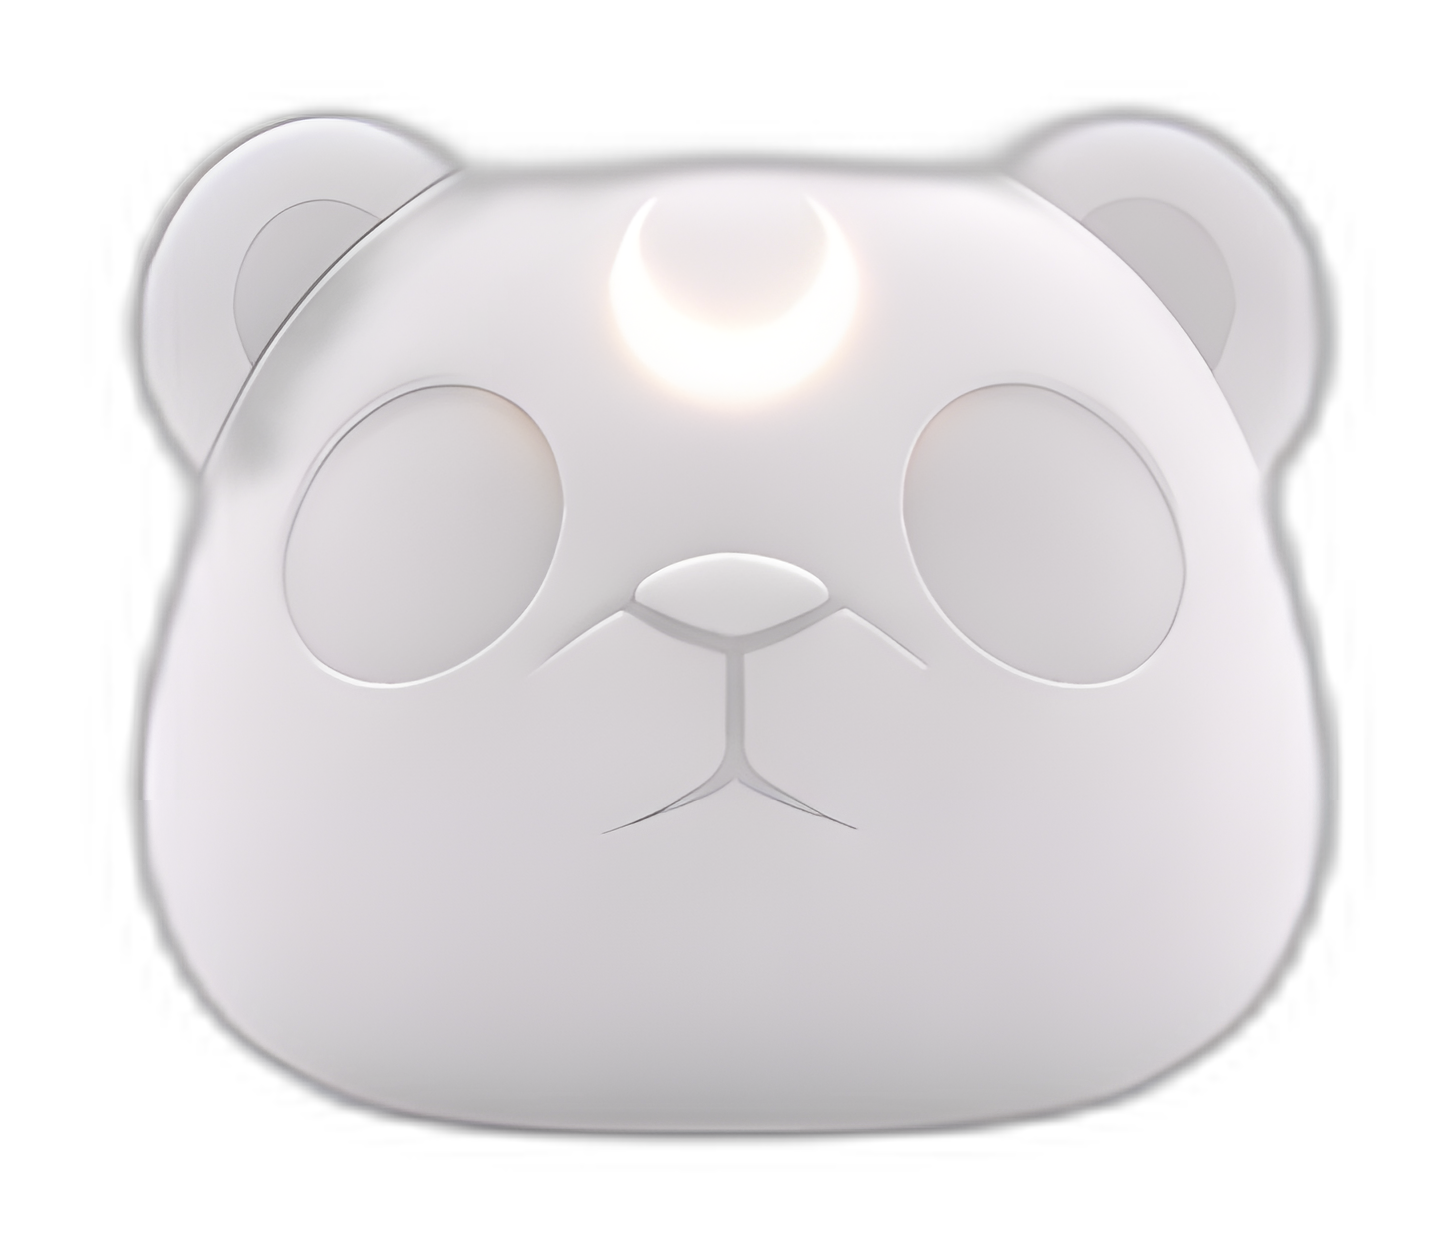
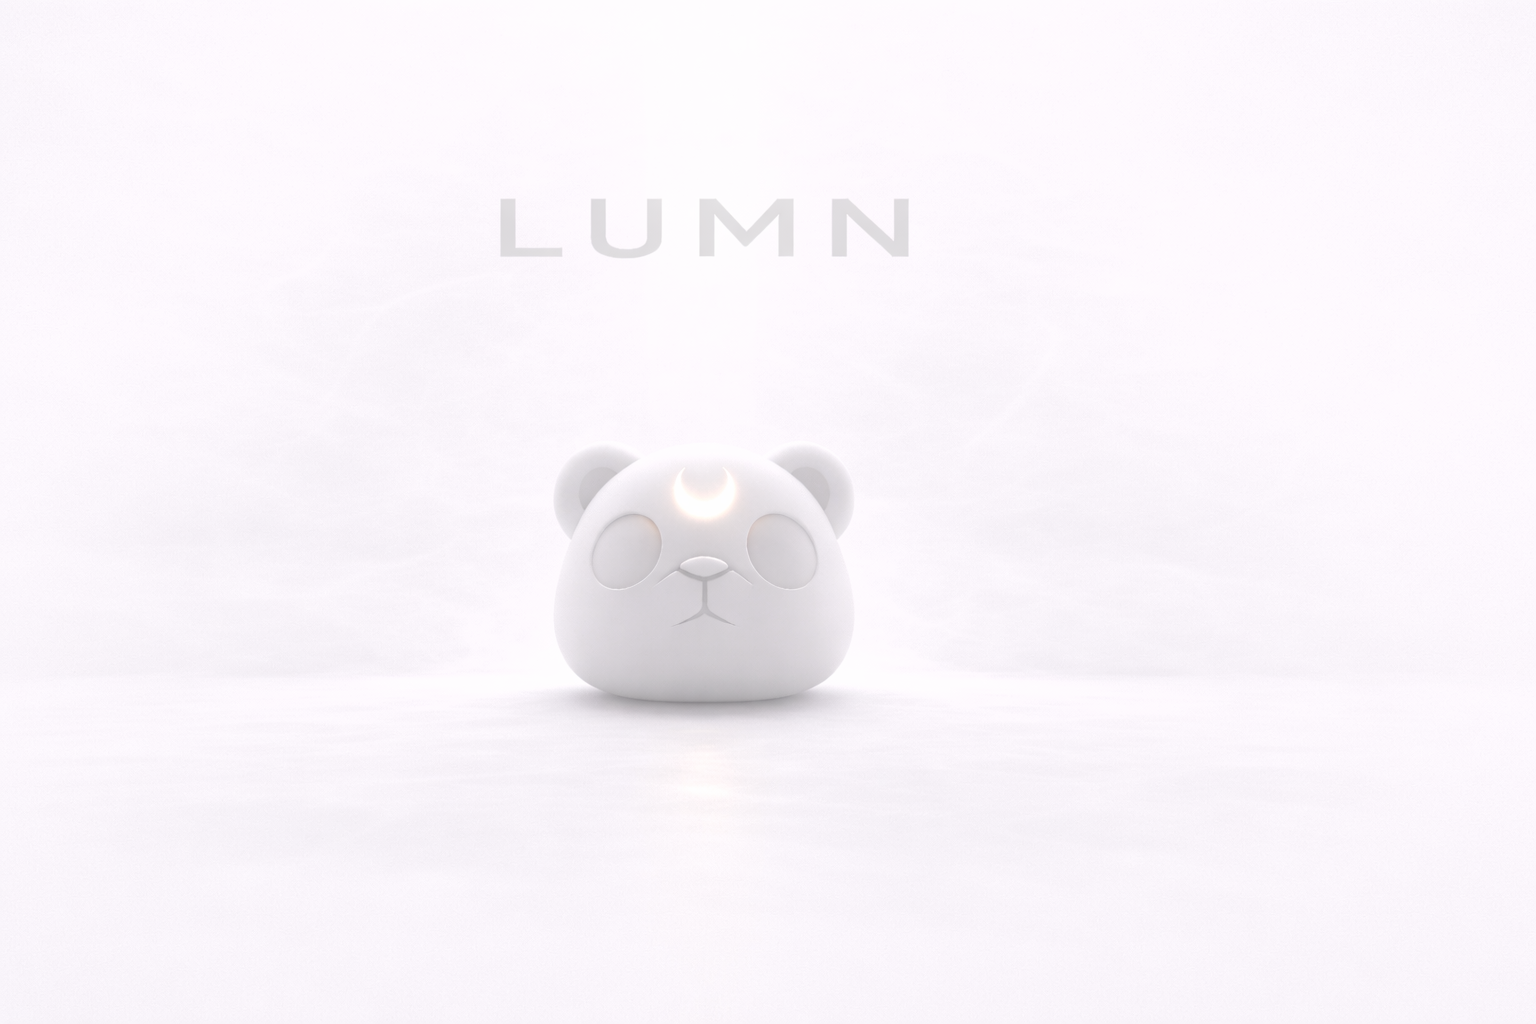
Welcome screen: clean rebuild with original images, no extraction
Critic feedback applied:
- Removed ALL noise: fog, sparkles, custom cursor, spotlight, floating animation
- Using original bear+LUMN composed images (no extraction artifacts)
- Image displayed as centered <img> with object-fit:contain (never cropped)
- Background color matches image edges seamlessly
- Subtle 1.5px parallax on mouse (barely perceptible, not distracting)
- Button: square corners, hover scale, readable text
- Subtitle + footer at readable opacity (0.5 and 0.3)
- Loading bar appears during 3s dark hold (shows intent, not a bug)
- No canvas, no particles, no custom cursor — pure minimalism

diff --git a/public/index.html b/public/index.html
@@ -2903,45 +2903,27 @@
     #welcomeBgDark { background-image: url('/public/lumn_bg_dark.png') !important; }
   }
 </style>
-<div id="welcomeScreen" style="position:fixed;top:0;left:0;right:0;bottom:0;z-index:100000;overflow:hidden;cursor:none;transition:filter 0.9s ease, opacity 0.9s ease;">
+<div id="welcomeScreen" style="position:fixed;top:0;left:0;right:0;bottom:0;z-index:100000;overflow:hidden;cursor:pointer;transition:filter 0.9s ease, opacity 0.9s ease;display:flex;align-items:center;justify-content:center;">
 
-  <!-- LAYER 0: Background color -->
+  <!-- Background color (matches image edges seamlessly) -->
   <div id="wBg" style="position:absolute;top:0;left:0;right:0;bottom:0;background:#f0eeeb;transition:background 0.2s;"></div>
 
-  <!-- LAYER 1: Fog/atmosphere canvas -->
-  <canvas id="wFogCanvas" style="position:absolute;top:0;left:0;width:100%;height:100%;z-index:1;pointer-events:none;"></canvas>
+  <!-- The hero image — your original bear+LUMN composition, centered, never cropped -->
+  <img id="wBearLight" src="/public/bear_light.png" alt="LUMN" style="position:relative;z-index:2;max-width:85%;max-height:75vh;width:auto;height:auto;object-fit:contain;opacity:0;animation:welcomeFadeUp 0.8s ease 0.2s forwards;transition:opacity 0.2s;will-change:transform;">
+  <img id="wBearDark" src="/public/bear_dark.png" alt="LUMN" style="position:absolute;top:50%;left:50%;transform:translate(-50%,-50%);z-index:2;max-width:85%;max-height:75vh;width:auto;height:auto;object-fit:contain;opacity:0;transition:opacity 0.2s;will-change:transform;">
 
-  <!-- LAYER 2: Ambient glow behind bear (breathing) -->
-  <div id="wAmbientGlow" style="position:absolute;top:50%;left:50%;width:300px;height:300px;transform:translate(-50%,-50%);border-radius:50%;background:radial-gradient(circle,rgba(255,240,200,0.25) 0%,transparent 70%);z-index:2;pointer-events:none;animation:welcomeGlow 4s ease-in-out infinite;"></div>
+  <!-- Subtle ambient glow behind bear -->
+  <div id="wGlow" style="position:absolute;top:50%;left:50%;width:40vw;height:40vw;max-width:500px;max-height:500px;transform:translate(-50%,-50%);border-radius:50%;background:radial-gradient(circle,rgba(255,220,150,0.12) 0%,transparent 70%);z-index:1;pointer-events:none;animation:welcomeGlow 5s ease-in-out infinite;"></div>
 
-  <!-- LAYER 3: Bear head (separate asset, perfectly centered, floats) -->
-  <img id="wBearLight" src="/public/bear_light.png" alt="" style="position:absolute;top:50%;left:50%;transform:translate(-50%,-50%);height:40vh;width:auto;z-index:3;animation:welcomeFloat 6s ease-in-out infinite;will-change:transform;opacity:1;transition:opacity 0.2s;">
-  <img id="wBearDark" src="/public/bear_dark.png" alt="" style="position:absolute;top:50%;left:50%;transform:translate(-50%,-50%);height:40vh;width:auto;z-index:3;animation:welcomeFloat 6s ease-in-out infinite;will-change:transform;opacity:0;transition:opacity 0.2s;">
-
-  <!-- LAYER 4: Moon crescent glow (on bear's forehead, pulses) -->
-  <div id="wMoonGlow" style="position:absolute;top:calc(50% - 13vh);left:50%;width:60px;height:60px;transform:translate(-50%,-50%);border-radius:50%;background:radial-gradient(circle,rgba(255,240,200,0.5) 0%,rgba(255,220,150,0.2) 40%,transparent 70%);z-index:4;pointer-events:none;animation:welcomeMoonPulse 3s ease-in-out infinite;"></div>
-
-  <!-- LAYER 5: "LUMN" text (HTML, always pixel-perfect) -->
-  <div id="wLumnText" style="position:absolute;top:calc(50% - 24vh);left:50%;transform:translateX(-50%);z-index:5;font-family:'Inter Tight',sans-serif;font-weight:300;font-size:clamp(24px,5vw,48px);letter-spacing:clamp(12px,3vw,32px);color:rgba(0,0,0,0.18);text-transform:uppercase;pointer-events:none;opacity:0;animation:welcomeFadeUp 1s ease 0.3s forwards;transition:color 0.2s;">L U M N</div>
-
-  <!-- LAYER 6: Spotlight that follows cursor -->
-  <div id="wSpotlight" style="position:absolute;width:400px;height:400px;border-radius:50%;background:radial-gradient(circle,rgba(0,0,0,0.03) 0%,transparent 70%);pointer-events:none;transform:translate(-50%,-50%);left:50%;top:50%;z-index:6;"></div>
-
-  <!-- LAYER 7: Particle canvas -->
-  <canvas id="wParticleCanvas" style="position:absolute;top:0;left:0;width:100%;height:100%;z-index:7;pointer-events:none;"></canvas>
-
-  <!-- LAYER 8: Custom cursor glow -->
-  <div id="wCursor" style="position:absolute;width:20px;height:20px;border-radius:50%;border:1.5px solid rgba(0,0,0,0.15);pointer-events:none;transform:translate(-50%,-50%);left:50%;top:50%;z-index:20;transition:width 0.3s, height 0.3s, border-color 0.3s;"></div>
-
-  <!-- LAYER 9: Bottom UI -->
-  <div id="wBottomUI" style="position:absolute;bottom:0;left:0;right:0;z-index:10;text-align:center;padding:0 24px 36px;">
-    <div style="margin-bottom:12px;">
-      <div id="wSubtitle" style="font-family:'Inter Tight',sans-serif;font-weight:300;font-size:11px;color:rgba(0,0,0,0.25);letter-spacing:6px;text-transform:uppercase;opacity:0;animation:welcomeFadeUp 0.8s ease 0.8s forwards;transition:color 0.2s;">AI Film Studio</div>
+  <!-- Bottom UI — clean, minimal, readable -->
+  <div id="wBottomUI" style="position:absolute;bottom:0;left:0;right:0;z-index:10;text-align:center;padding:0 24px 40px;">
+    <div style="margin-bottom:14px;">
+      <div id="wSubtitle" style="font-family:'Inter Tight',sans-serif;font-weight:300;font-size:12px;color:rgba(0,0,0,0.5);letter-spacing:6px;text-transform:uppercase;opacity:0;animation:welcomeFadeUp 0.7s ease 0.6s forwards;transition:color 0.2s;">AI Film Studio</div>
     </div>
-    <button id="wCta" onclick="window._enterStudio()" style="background:rgba(0,0,0,0.05);backdrop-filter:blur(20px);color:rgba(0,0,0,0.4);border:1px solid rgba(0,0,0,0.08);padding:14px 52px;border-radius:30px;font-family:'Inter Tight',sans-serif;font-size:11px;font-weight:600;letter-spacing:6px;cursor:none;text-transform:uppercase;opacity:0;animation:welcomeFadeUp 0.8s ease 1.1s forwards, welcomeCtaBreathe 3s ease 2s infinite;transition:all 0.2s;">
+    <button id="wCta" onclick="window._enterStudio()" style="background:rgba(0,0,0,0.06);backdrop-filter:blur(20px);color:rgba(0,0,0,0.6);border:1px solid rgba(0,0,0,0.1);padding:14px 52px;border-radius:8px;font-family:'Inter Tight',sans-serif;font-size:11px;font-weight:600;letter-spacing:6px;cursor:pointer;text-transform:uppercase;opacity:0;animation:welcomeFadeUp 0.7s ease 0.9s forwards;transition:all 0.3s;" onmouseover="this.style.background='rgba(0,0,0,0.1)';this.style.color='rgba(0,0,0,0.8)';this.style.transform='scale(1.04)'" onmouseout="this.style.background='rgba(0,0,0,0.06)';this.style.color='rgba(0,0,0,0.6)';this.style.transform=''">
       Enter
     </button>
-    <div id="wFooter" style="font-family:'JetBrains Mono',monospace;font-size:7px;color:rgba(0,0,0,0.1);letter-spacing:4px;text-transform:uppercase;margin-top:16px;opacity:0;animation:welcomeFadeUp 0.6s ease 1.4s forwards;transition:color 0.2s;">Script to Screen</div>
+    <div id="wFooter" style="font-family:'Inter Tight',sans-serif;font-size:9px;color:rgba(0,0,0,0.3);letter-spacing:4px;text-transform:uppercase;margin-top:16px;opacity:0;animation:welcomeFadeUp 0.5s ease 1.2s forwards;transition:color 0.2s;">Script to Screen</div>
   </div>
 </div>
 
@@ -2953,7 +2935,6 @@
    ═══════════════════════════════════════════════════════ */
 
 (function() {
-  // Always define _showWelcome so toolbar button works
   window._showWelcome = function() {
     localStorage.removeItem('lumn_welcomed');
     location.reload();
@@ -2963,232 +2944,66 @@
   if (!screen) return;
   if (localStorage.getItem('lumn_welcomed')) { screen.remove(); return; }
 
-  // Elements
   var bg = document.getElementById('wBg');
   var bearLight = document.getElementById('wBearLight');
   var bearDark = document.getElementById('wBearDark');
-  var moonGlow = document.getElementById('wMoonGlow');
-  var ambientGlow = document.getElementById('wAmbientGlow');
-  var lumnText = document.getElementById('wLumnText');
-  var spotlight = document.getElementById('wSpotlight');
-  var cursor = document.getElementById('wCursor');
+  var glow = document.getElementById('wGlow');
   var cta = document.getElementById('wCta');
   var subtitle = document.getElementById('wSubtitle');
   var footer = document.getElementById('wFooter');
-  var fogCanvas = document.getElementById('wFogCanvas');
-  var particleCanvas = document.getElementById('wParticleCanvas');
 
-  var fogCtx = fogCanvas ? fogCanvas.getContext('2d') : null;
-  var partCtx = particleCanvas ? particleCanvas.getContext('2d') : null;
-
-  var mouseX = window.innerWidth / 2;
-  var mouseY = window.innerHeight / 2;
-  var isDark = false;
-  var alive = true;
-
-  // ── Resize canvases ──
-  function resize() {
-    if (fogCanvas) { fogCanvas.width = window.innerWidth; fogCanvas.height = window.innerHeight; }
-    if (particleCanvas) { particleCanvas.width = window.innerWidth; particleCanvas.height = window.innerHeight; }
-  }
-  resize();
-  window.addEventListener('resize', resize);
-
-  // ── Custom cursor + mouse tracking ──
+  // Subtle parallax on mouse (very gentle, 1-2px only)
   screen.addEventListener('mousemove', function(e) {
-    mouseX = e.clientX;
-    mouseY = e.clientY;
-
-    // Custom cursor
-    if (cursor) {
-      cursor.style.left = mouseX + 'px';
-      cursor.style.top = mouseY + 'px';
-    }
-
-    // Spotlight follows
-    if (spotlight) {
-      spotlight.style.left = mouseX + 'px';
-      spotlight.style.top = mouseY + 'px';
-    }
-
-    // Parallax on bear (subtle)
     var cx = window.innerWidth / 2;
     var cy = window.innerHeight / 2;
-    var dx = (mouseX - cx) / cx;
-    var dy = (mouseY - cy) / cy;
-    var px = dx * -6;
-    var py = dy * -4;
-    var activeB = isDark ? bearDark : bearLight;
-    if (activeB) {
-      activeB.style.transform = 'translate(calc(-50% + ' + px + 'px), calc(-50% + ' + py + 'px))';
-    }
-
-    // Parallax on LUMN text (moves opposite, more)
-    if (lumnText) {
-      lumnText.style.transform = 'translateX(calc(-50% + ' + (dx * 10) + 'px))';
-    }
-
-    // Moon glow intensity based on distance to bear forehead
-    if (moonGlow) {
-      var moonX = cx;
-      var moonY = cy - window.innerHeight * 0.13;
-      var dist = Math.sqrt(Math.pow(mouseX - moonX, 2) + Math.pow(mouseY - moonY, 2));
-      var intensity = Math.max(0, 1 - dist / 250);
-      moonGlow.style.opacity = 0.3 + intensity * 0.7;
-      var sz = 60 + intensity * 80;
-      moonGlow.style.width = sz + 'px';
-      moonGlow.style.height = sz + 'px';
-    }
-
-    // Cursor grows near CTA
-    if (cursor && cta) {
-      var ctaRect = cta.getBoundingClientRect();
-      var ctaCx = ctaRect.left + ctaRect.width / 2;
-      var ctaCy = ctaRect.top + ctaRect.height / 2;
-      var ctaDist = Math.sqrt(Math.pow(mouseX - ctaCx, 2) + Math.pow(mouseY - ctaCy, 2));
-      if (ctaDist < 80) {
-        cursor.style.width = '50px';
-        cursor.style.height = '50px';
-        cursor.style.borderColor = isDark ? 'rgba(255,255,255,0.3)' : 'rgba(0,0,0,0.2)';
-      } else {
-        cursor.style.width = '20px';
-        cursor.style.height = '20px';
-        cursor.style.borderColor = isDark ? 'rgba(255,255,255,0.15)' : 'rgba(0,0,0,0.15)';
-      }
+    var dx = (e.clientX - cx) / cx;
+    var dy = (e.clientY - cy) / cy;
+    var activeB = bearLight.style.opacity !== '0' ? bearLight : bearDark;
+    if (activeB && activeB === bearLight) {
+      activeB.style.transform = 'translate(' + (dx * -1.5) + 'px, ' + (dy * -1) + 'px)';
+    } else if (activeB === bearDark) {
+      activeB.style.transform = 'translate(calc(-50% + ' + (dx * -1.5) + 'px), calc(-50% + ' + (dy * -1) + 'px))';
     }
   });
 
-  // ── Fog system (canvas) ──
-  var fogParticles = [];
-  for (var i = 0; i < 25; i++) {
-    fogParticles.push({
-      x: Math.random() * window.innerWidth,
-      y: window.innerHeight * 0.5 + Math.random() * window.innerHeight * 0.5,
-      radius: Math.random() * 150 + 80,
-      speedX: (Math.random() - 0.5) * 0.4,
-      opacity: Math.random() * 0.04 + 0.01,
-    });
-  }
-
-  // ── Sparkle particles ──
-  var sparkles = [];
-  for (var j = 0; j < 40; j++) {
-    sparkles.push({
-      x: Math.random() * window.innerWidth,
-      y: Math.random() * window.innerHeight,
-      size: Math.random() * 1.5 + 0.3,
-      speedX: (Math.random() - 0.5) * 0.2,
-      speedY: (Math.random() - 0.5) * 0.15 - 0.05,
-      opacity: Math.random() * 0.25 + 0.02,
-      life: Math.random() * 400 + 150,
-      maxLife: 0,
-    });
-    sparkles[j].maxLife = sparkles[j].life;
-  }
-
-  // ── Main animation loop ──
-  function animate() {
-    if (!alive || !document.getElementById('welcomeScreen')) return;
-
-    var w = window.innerWidth;
-    var h = window.innerHeight;
-
-    // Draw fog
-    if (fogCtx) {
-      fogCtx.clearRect(0, 0, w, h);
-      for (var fi = 0; fi < fogParticles.length; fi++) {
-        var fp = fogParticles[fi];
-        fp.x += fp.speedX;
-        if (fp.x > w + fp.radius) fp.x = -fp.radius;
-        if (fp.x < -fp.radius) fp.x = w + fp.radius;
-
-        var fogColor = isDark ? '255,255,255' : '0,0,0';
-        var grad = fogCtx.createRadialGradient(fp.x, fp.y, 0, fp.x, fp.y, fp.radius);
-        grad.addColorStop(0, 'rgba(' + fogColor + ',' + fp.opacity + ')');
-        grad.addColorStop(1, 'rgba(' + fogColor + ',0)');
-        fogCtx.fillStyle = grad;
-        fogCtx.fillRect(fp.x - fp.radius, fp.y - fp.radius, fp.radius * 2, fp.radius * 2);
-      }
-    }
-
-    // Draw sparkles
-    if (partCtx) {
-      partCtx.clearRect(0, 0, w, h);
-      var sparkColor = isDark ? '255,255,255' : '80,80,80';
-      for (var si = 0; si < sparkles.length; si++) {
-        var sp = sparkles[si];
-        sp.x += sp.speedX;
-        sp.y += sp.speedY;
-        sp.life--;
-
-        // Cursor repulsion
-        var sdx = sp.x - mouseX;
-        var sdy = sp.y - mouseY;
-        var sDist = Math.sqrt(sdx * sdx + sdy * sdy);
-        if (sDist < 80 && sDist > 0) {
-          sp.x += sdx / sDist * 0.8;
-          sp.y += sdy / sDist * 0.8;
-        }
-
-        var lifePct = sp.life / sp.maxLife;
-        var fade = lifePct < 0.15 ? lifePct / 0.15 : lifePct > 0.85 ? (1 - lifePct) / 0.15 : 1;
-
-        partCtx.fillStyle = 'rgba(' + sparkColor + ',' + (sp.opacity * fade) + ')';
-        partCtx.beginPath();
-        partCtx.arc(sp.x, sp.y, sp.size, 0, Math.PI * 2);
-        partCtx.fill();
-
-        if (sp.life <= 0 || sp.x < -20 || sp.x > w + 20 || sp.y < -20 || sp.y > h + 20) {
-          sp.x = Math.random() * w;
-          sp.y = Math.random() * h;
-          sp.life = Math.random() * 400 + 150;
-          sp.maxLife = sp.life;
-        }
-      }
-    }
-
-    requestAnimationFrame(animate);
-  }
-  animate();
-
-  // ── ENTER STUDIO ──
+  // ── Enter Studio ──
   window._enterStudio = function() {
-    isDark = true;
-
     // Instant switch to dark
     if (bearLight) bearLight.style.opacity = '0';
     if (bearDark) bearDark.style.opacity = '1';
     if (bg) bg.style.background = '#060606';
-    if (lumnText) lumnText.style.color = 'rgba(255,255,255,0.2)';
-    if (subtitle) subtitle.style.color = 'rgba(255,255,255,0.2)';
-    if (footer) footer.style.color = 'rgba(255,255,255,0.08)';
-    if (cursor) cursor.style.borderColor = 'rgba(255,255,255,0.15)';
+    if (subtitle) subtitle.style.color = 'rgba(255,255,255,0.3)';
+    if (footer) footer.style.color = 'rgba(255,255,255,0.15)';
+    if (glow) glow.style.background = 'radial-gradient(circle,rgba(255,220,150,0.08) 0%,transparent 70%)';
     if (cta) {
       cta.style.background = 'rgba(255,255,255,0.08)';
       cta.style.color = 'rgba(255,255,255,0.5)';
       cta.style.borderColor = 'rgba(255,255,255,0.1)';
-      cta.style.animation = 'welcomeCtaBreatheDark 3s ease infinite';
     }
-    if (ambientGlow) ambientGlow.style.background = 'radial-gradient(circle,rgba(255,240,200,0.15) 0%,transparent 70%)';
-    if (spotlight) spotlight.style.background = 'radial-gradient(circle,rgba(255,240,200,0.06) 0%,transparent 70%)';
+
+    // Loading bar (shows progress during 3s hold)
+    var bar = document.createElement('div');
+    bar.style.cssText = 'position:fixed;bottom:100px;left:50%;transform:translateX(-50%);width:80px;height:2px;background:rgba(255,255,255,0.08);border-radius:1px;z-index:100001;overflow:hidden;';
+    var fill = document.createElement('div');
+    fill.style.cssText = 'width:0%;height:100%;background:rgba(255,255,255,0.3);border-radius:1px;transition:width 2.8s ease;';
+    bar.appendChild(fill);
+    screen.appendChild(bar);
+    setTimeout(function() { fill.style.width = '100%'; }, 50);
 
     // 3 second hold → blur + fade → remove
     setTimeout(function() {
       if (screen) {
         screen.style.opacity = '0';
         screen.style.filter = 'blur(8px)';
-        setTimeout(function() { alive = false; screen.remove(); }, 1000);
+        setTimeout(function() { screen.remove(); }, 1000);
       }
     }, 3000);
 
     localStorage.setItem('lumn_welcomed', '1');
   };
 
-  // _showWelcome already defined above (before early return)
-
-  // Preload
+  // Preload dark image
   new Image().src = '/public/bear_dark.png';
-  new Image().src = '/public/bear_light.png';
 })();
 </script>
 
